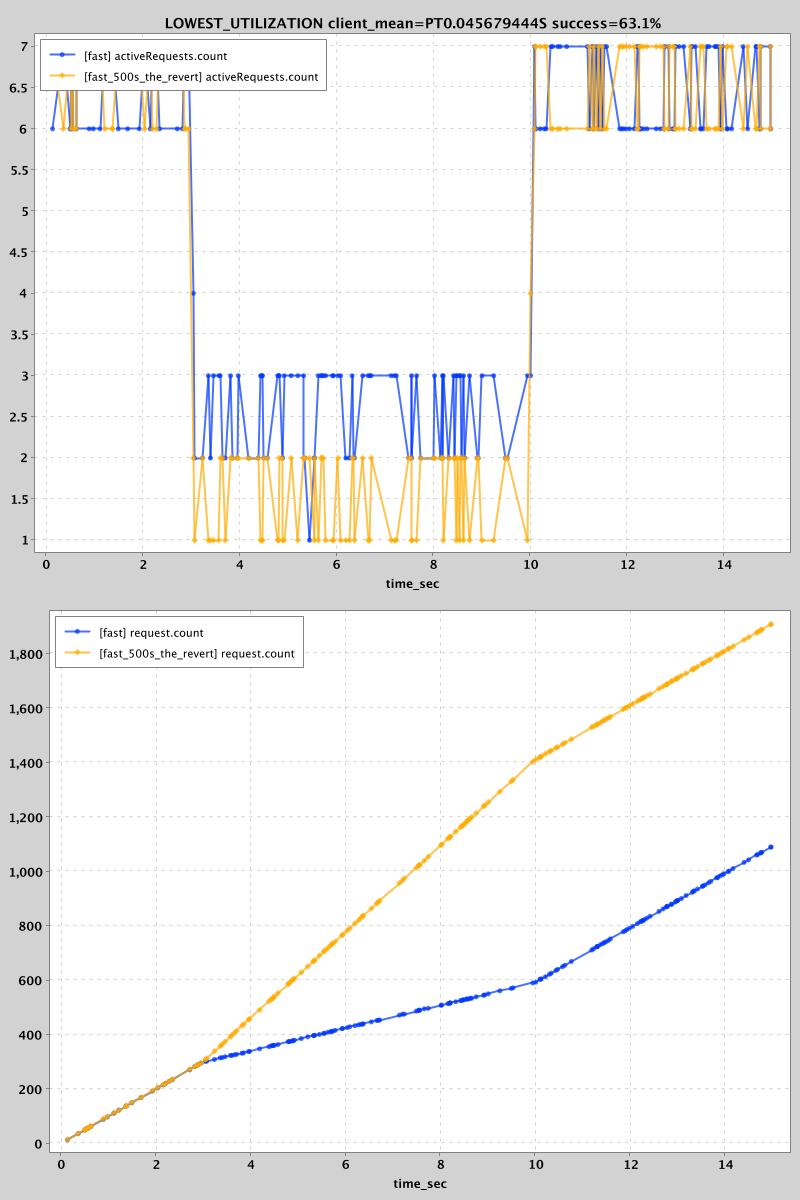
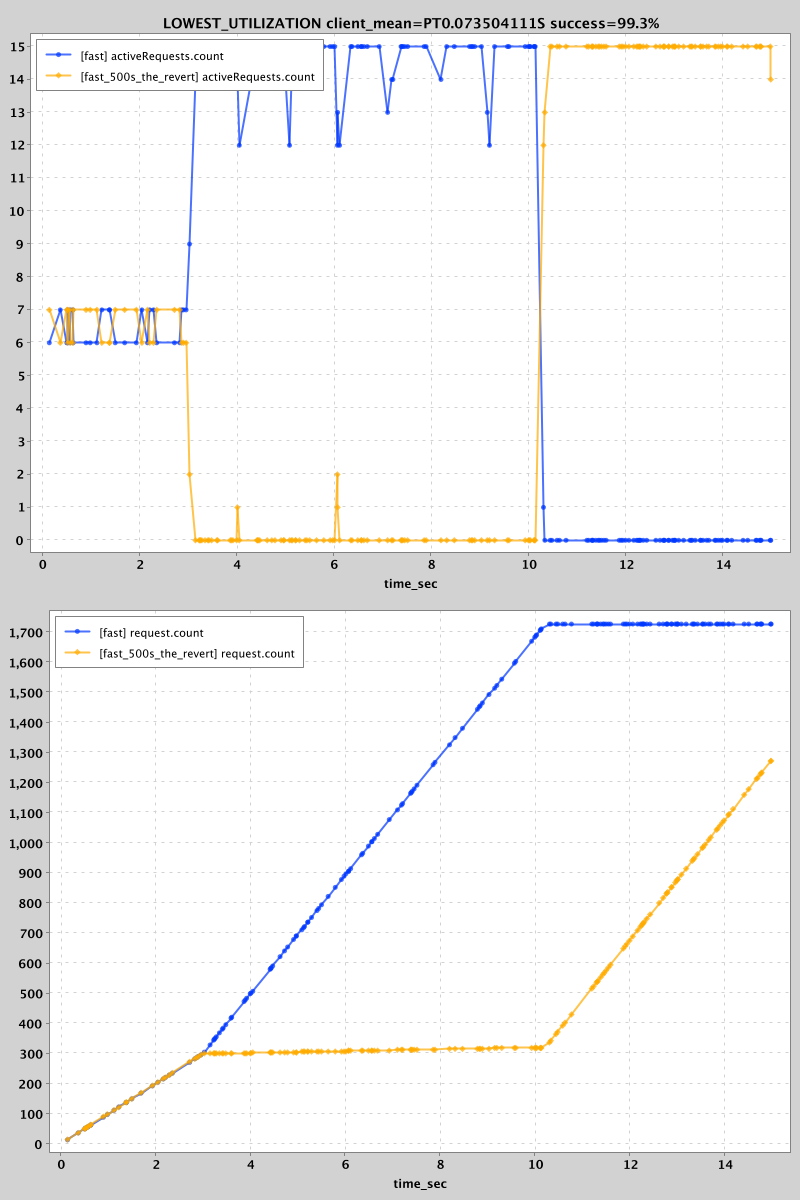
Blacklist host after receiving a 500

diff --git a/dialogue-core/src/main/java/com/palantir/dialogue/core/BlacklistingChannel.java b/dialogue-core/src/main/java/com/palantir/dialogue/core/BlacklistingChannel.java
@@ -105,7 +105,7 @@ final class BlacklistingChannel implements LimitedChannel {
         @Override
         public void onSuccess(Response response) {
             // TODO(jellis): use the Retry-After header (if present) to determine how long to blacklist the channel
-            if (response.code() == 503) {
+            if (response.code() == 503 || response.code() == 500) {
                 blacklist();
             } else if (probationPermit.isPresent() && probationPermit.get().checkIfProbationIsComplete()) {
                 log.debug("Probation is complete");

diff --git a/dialogue-core/src/test/java/com/palantir/dialogue/core/BlacklistingChannelTest.java b/dialogue-core/src/test/java/com/palantir/dialogue/core/BlacklistingChannelTest.java
@@ -80,6 +80,14 @@ public class BlacklistingChannelTest {
     }
 
     @Test
+    public void testBlacklistAfter500() {
+        assertThat(channel.maybeExecute(endpoint, request)).contains(futureResponse);
+
+        futureResponse.set(mockResponseWithCode(500));
+        assertThat(channel.maybeExecute(endpoint, request)).isEmpty();
+    }
+
+    @Test
     public void testBlacklistedForDuration() {
         assertThat(channel.maybeExecute(endpoint, request)).contains(futureResponse);
 
